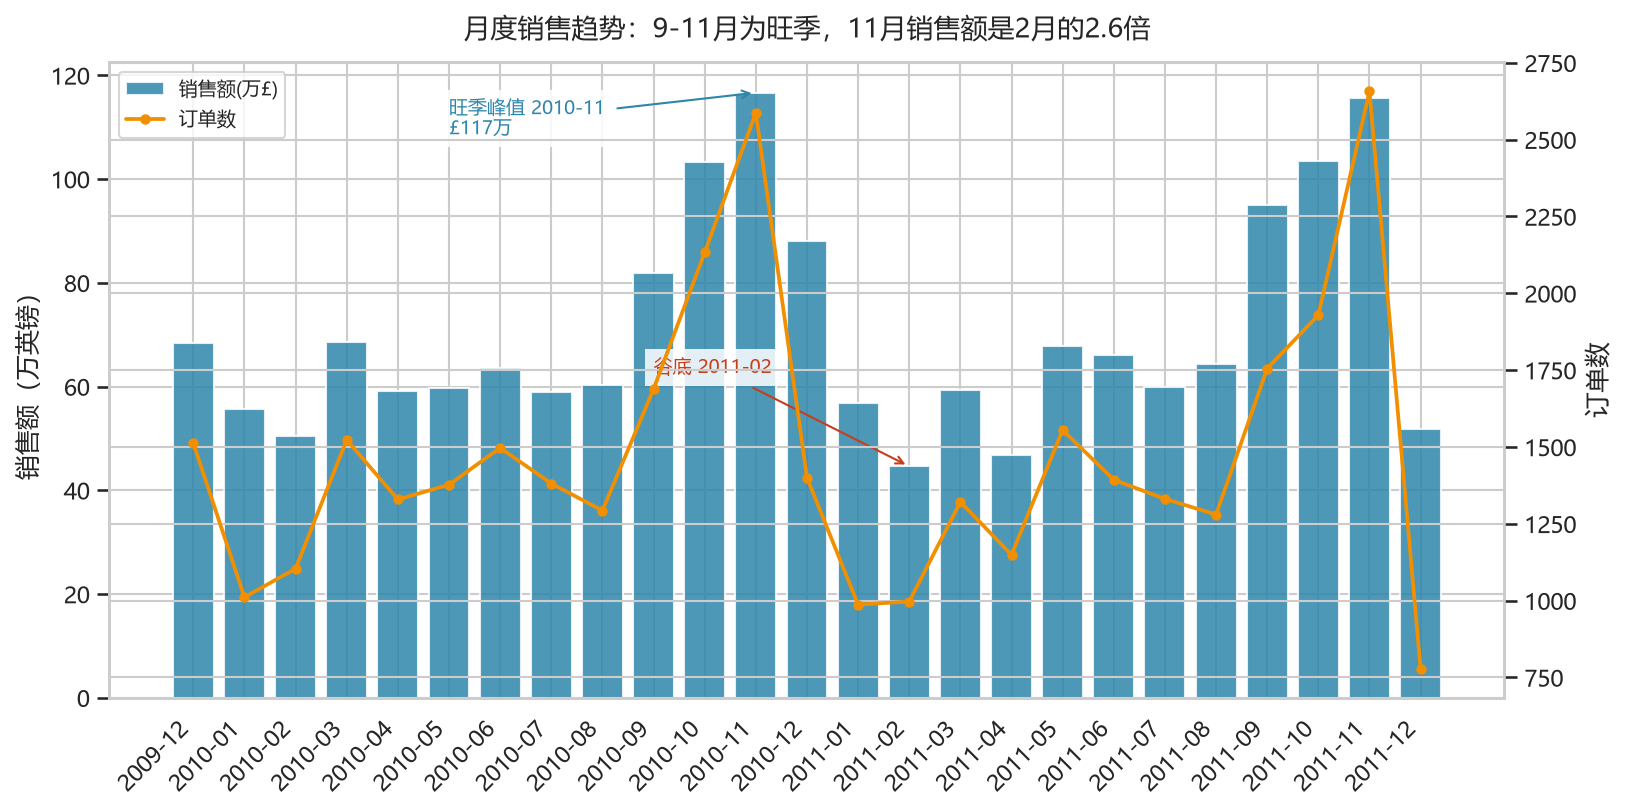
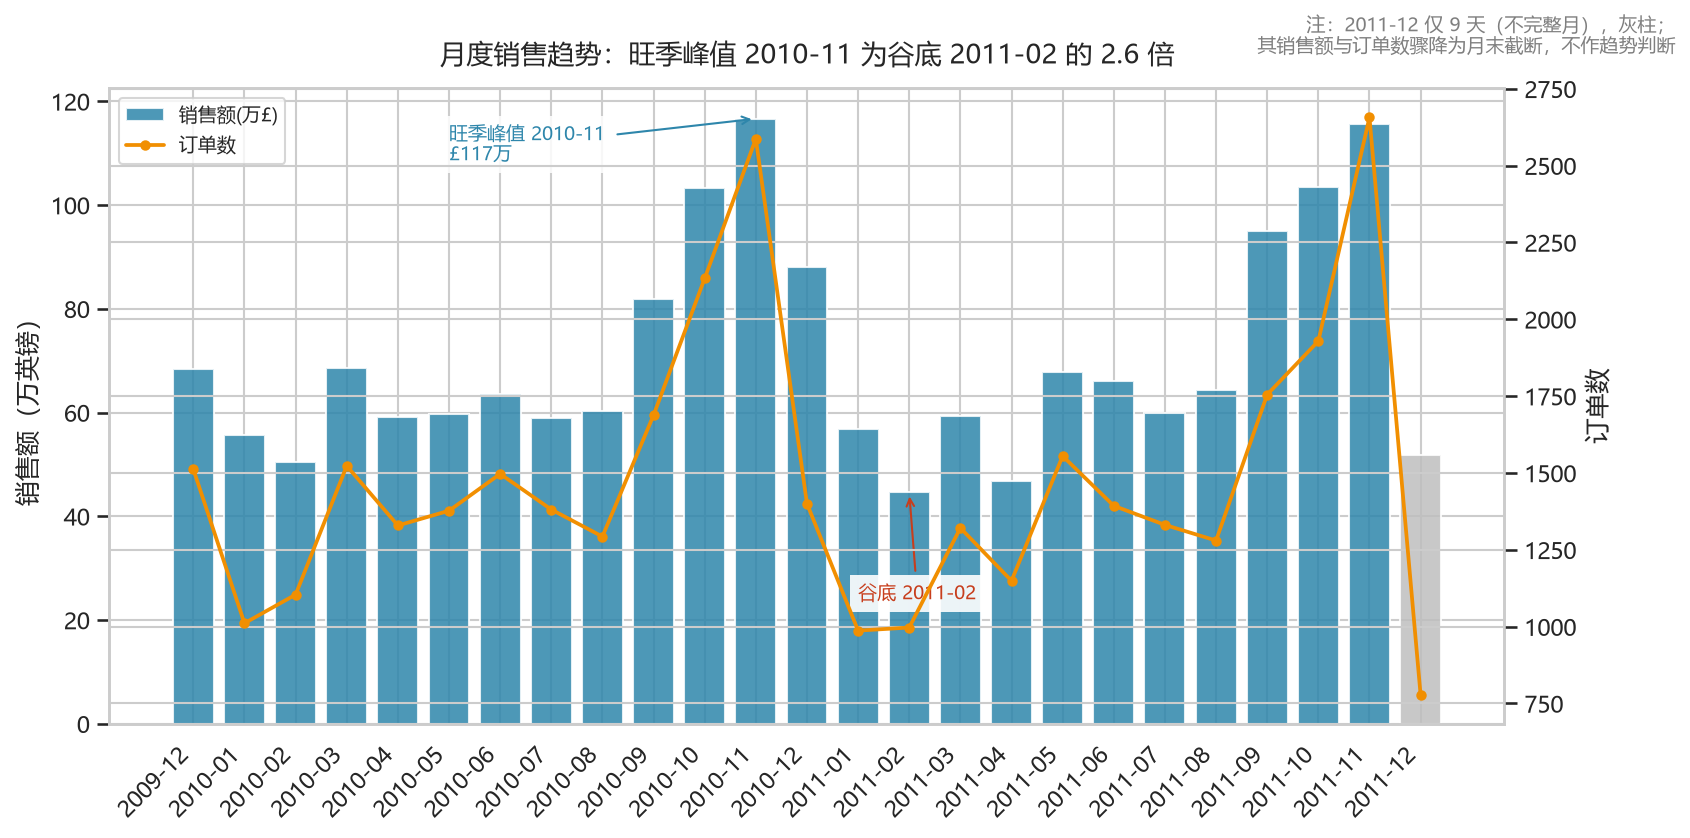
fix: 评审修订——统一文档分层占比数字、澄清RF定层口径、残月灰化标注、工程化收尾
- README/报告.md 数字统一为最新一次运行结果（25.1%/69.3%/26.0%/3.7%），图表标题改为动态生成，杜绝再次跑偏
- RFM 定层改为 RF 定层（M 与 F 秩相关 0.86，M 仅作描述列），README/报告/SQL 三处口径一致
- 图1 残月(2011-12 仅9天)灰化并加注；谷底改为全期极值，消除年份选择性
- 修正幽灵引用(03_retention.py→02_visualize.py)、删除 TODO 措辞与本机路径
- 补 requirements.txt、LICENSE、数据下载指引；README 新增已知局限章节

diff --git a/analysis/02_visualize.py b/analysis/02_visualize.py
@@ -5,14 +5,21 @@
 """
 import pandas as pd
 import numpy as np
+import logging
 import matplotlib.pyplot as plt
 import matplotlib.ticker as mtick
 import seaborn as sns
 
+# 压掉其他平台字体缺失的提示（Windows 下会用列表里第一个可用的微软雅黑）
+logging.getLogger("matplotlib.font_manager").setLevel(logging.ERROR)
+
 # ---------- 全局样式 ----------
-plt.rcParams["font.sans-serif"] = ["Microsoft YaHei"]   # 中文字体
+# 中文字体按平台依次回退：Windows → macOS → Linux，找不到任一可用字体时退回英文标签也不报错
+CJK_FONTS = ["Microsoft YaHei", "SimHei", "PingFang SC", "Hiragino Sans GB",
+             "Noto Sans CJK SC", "WenQuanYi Zen Hei", "Arial Unicode MS"]
+plt.rcParams["font.sans-serif"] = CJK_FONTS + ["DejaVu Sans"]
 plt.rcParams["axes.unicode_minus"] = False
-sns.set_theme(style="whitegrid", font="Microsoft YaHei")
+sns.set_theme(style="whitegrid", font=CJK_FONTS)
 C_MAIN, C_ACCENT, C_WARN = "#2E86AB", "#F18F01", "#C73E1D"
 
 df = pd.read_csv("data/clean_orders.csv",
@@ -37,7 +44,16 @@ monthly = (df.groupby("order_month")
 
 fig, ax1 = plt.subplots(figsize=(12, 5.5))
 x = range(len(monthly))
-ax1.bar(x, monthly["revenue"] / 1e4, color=C_MAIN, alpha=0.85, label="销售额(万£)")
+
+# 识别不完整月（最后一个月数据截止到当月某天），单独灰化，不参与趋势判断
+last_month = monthly["order_month"].iloc[-1]
+last_days = int(df.loc[df["order_month"] == last_month, "order_date"].dt.day.max())
+is_partial = last_days < 25
+bar_colors = [C_MAIN] * len(monthly)
+if is_partial:
+    bar_colors[-1] = "#BFBFBF"
+
+ax1.bar(x, monthly["revenue"] / 1e4, color=bar_colors, alpha=0.85, label="销售额(万£)")
 ax1.set_xticks(list(x))
 ax1.set_xticklabels(monthly["order_month"], rotation=45, ha="right")
 ax1.set_ylabel("销售额（万英镑）")
@@ -47,20 +63,27 @@ ax2 = ax1.twinx()
 ax2.plot(x, monthly["orders"], color=C_ACCENT, marker="o", ms=4, lw=1.8, label="订单数")
 ax2.set_ylabel("订单数")
 
-# 标注旺季峰值与谷底
+# 标注旺季峰值与谷底（均在完整月内取全局极值，不做年份筛选）
 peak = monthly["revenue"].idxmax()
-trough = monthly[monthly["order_month"].str.startswith(("2011",))]["revenue"].idxmin()
-ax1.annotate(f"旺季峰值 {monthly.loc[peak,'order_month']}\n£{monthly.loc[peak,'revenue']/1e4:.0f}万",
-             xy=(peak, monthly.loc[peak, "revenue"]/1e4), xytext=(peak-6, monthly["revenue"].max()/1e4 - 8),
+trough = monthly["revenue"].idxmin()
+peak_v = monthly.loc[peak, "revenue"] / 1e4
+trough_v = monthly.loc[trough, "revenue"] / 1e4
+ax1.annotate(f"旺季峰值 {monthly.loc[peak,'order_month']}\n£{peak_v:.0f}万",
+             xy=(peak, peak_v), xytext=(peak-6, peak_v - 8),
              fontsize=9, color=C_MAIN, arrowprops=dict(arrowstyle="->", color=C_MAIN),
              bbox=dict(facecolor="white", alpha=0.85, edgecolor="none"))
 ax1.annotate(f"谷底 {monthly.loc[trough,'order_month']}",
-             xy=(trough, monthly.loc[trough, "revenue"]/1e4),
-             xytext=(trough-5, monthly["revenue"].min()/1e4+18),
+             xy=(trough, trough_v), xytext=(trough - 1, 24),
              fontsize=9, color=C_WARN, arrowprops=dict(arrowstyle="->", color=C_WARN),
-             bbox=dict(facecolor="white", alpha=0.85, edgecolor="none"))
+             bbox=dict(facecolor="white", alpha=0.9, edgecolor="none"))
+if is_partial:
+    fig.text(0.995, 0.97,
+             f"注：{last_month} 仅 {last_days} 天（不完整月），灰柱；\n"
+             f"其销售额与订单数骤降为月末截断，不作趋势判断",
+             ha="right", va="top", fontsize=9, color="#7F7F7F")
 
-ax1.set_title("月度销售趋势：9-11月为旺季，11月销售额是2月的2.6倍", fontsize=13, pad=12)
+ax1.set_title(f"月度销售趋势：旺季峰值 {monthly.loc[peak,'order_month']} 为谷底 "
+              f"{monthly.loc[trough,'order_month']} 的 {peak_v/trough_v:.1f} 倍", fontsize=13, pad=12)
 h1, l1 = ax1.get_legend_handles_labels(); h2, l2 = ax2.get_legend_handles_labels()
 ax1.legend(h1 + h2, l1 + l2, loc="upper left", fontsize=9)
 save_fig(fig, "01_monthly_trend.png")
@@ -95,7 +118,9 @@ ax.set_title(f"客户价值帕累托曲线（n={n} 个客户）", fontsize=13, p
 save_fig(fig, "02_customer_pareto.png")
 
 # ============================================================
-# 图 3：RFM 分层 —— 人数占比 vs 金额占比（复用 SQL 的分层规则）
+# 图 3：RF 分层 —— 人数占比 vs 金额占比（复用 SQL 的分层规则）
+#   分层规则只消费 R / F 两个维度；M 与 F 秩相关 0.86，加入会重复计权，
+#   故 M 仅作为「金额描述列」保留，不参与定层（详见 README 局限说明）。
 # ============================================================
 obs_end = df["order_date"].max()
 rfm = (df.groupby("customer_id")
@@ -129,9 +154,22 @@ for bars in (b1, b2):
     ax.bar_label(bars, fmt="%.1f%%", fontsize=9, padding=2)
 ax.set_xticks(xp); ax.set_xticklabels(seg.index, fontsize=10)
 ax.yaxis.set_major_formatter(mtick.PercentFormatter())
-ax.set_title("RFM 分层：重要价值客户 27% 的人数贡献 70% 的金额", fontsize=13, pad=12)
+# 标题数字全部由本次计算结果生成，避免改代码后标题与柱子不一致
+w_row = seg[seg.index.str.startswith("重要价值客户")].iloc[0]
+ax.set_title(f"RF 分层：重要价值客户 {w_row['人数占比']:.1f}% 的人数贡献 {w_row['金额占比']:.1f}% 的金额",
+             fontsize=13, pad=12)
 ax.legend()
 save_fig(fig, "03_rfm_segments.png")
+
+# 分层明细（控制台 & 供报告核对；文档里的数字以这里为准）
+stat = (rfm.groupby("segment")
+           .agg(人数=("customer_id", "count"), 金额=("monetary", "sum"),
+                平均购买次数=("frequency", "mean"), 平均距上次购买=("recency", "mean")))
+stat["人数占比"] = stat["人数"] / stat["人数"].sum() * 100
+stat["金额占比"] = stat["金额"] / stat["金额"].sum() * 100
+print("\n[分层明细] 请以此为准同步 README / 报告.md：")
+print(stat[["人数占比", "金额占比", "平均购买次数", "平均距上次购买"]]
+      .sort_values("金额占比", ascending=False).round(1).to_string())
 
 # ============================================================
 # 图 4：留存热力图（按首购月 cohort × 距首购第 N 月）
@@ -155,8 +193,11 @@ sns.heatmap(heat, annot=True, fmt=".0f", cmap="YlGnBu", vmin=0, vmax=60,
             cbar_kws={"label": "留存率 %"}, linewidths=0.4, ax=ax)
 ax.set_xlabel("距首次购买")
 ax.set_ylabel("首购月份（cohort）")
-ax.set_title("留存热力图：次月留存约 19%，留存下来的客户会持续回访", fontsize=13, pad=12)
+m1 = heat["第1月"].median()          # 次月留存中位数：由数据算出，不写死
+ax.set_title(f"留存热力图：次月留存中位数 {m1:.0f}%，留存下来的客户会持续回访", fontsize=13, pad=12)
 save_fig(fig, "04_retention_heatmap.png")
+print(f"\n[留存] 次月留存中位数 {m1:.1f}%｜各 cohort 次月留存范围 "
+      f"{heat['第1月'].min():.0f}–{heat['第1月'].max():.0f}%")
 
 # ---------- 保存 RFM 明细表供报告使用 ----------
 rfm.to_csv("data/rfm_customers.csv", index=False)

diff --git a/analysis/01_cleaning.py b/analysis/01_cleaning.py
@@ -25,25 +25,31 @@ print(f"[1] 重复值：删除 {before - len(df):,} 行，剩余 {len(df):,} 行
 print("[2] 缺失情况：")
 print((df.isnull().mean() * 100).round(2).astype(str) + " %")
 
-# TODO(你来做)：决定怎么处理
-#   - Customer ID 缺失 22.8%：用户分析必须剔除（无法归属到人）
-#   - Description 缺失 4382：可用同 StockCode 的其他行反查补全，补不全的剔除
+# 处理决策（非待办，已定稿）：
+#   - Customer ID 缺失 22.8%（243,007 行）：无法归因到具体客户，剔除。这批多为游客单，
+#     只影响"整体销售额"这一口径，不影响任何客户级指标（复购率 / 留存 / RF 分层均按客户聚合）
+#   - Description 缺失 4,382 行：该字段不参与任何指标计算，仅用于人工抽查商品构成，
+#     因此**不做** StockCode 反查补全，保留缺失（占比 <0.6%，不影响结论）
 df = df.dropna(subset=["Customer ID"])
 
 # ============ 3. 异常值 ============
-# TODO(你来做)：思考这几个阈值合不合理，可自行调整并写明理由
-#   - 负数量 = 退货/取消单，这里先剔除（只分析正向购买行为）
-#   - 0 或负价格 = 坏账调整/赠品，剔除
-#   - 极端价格（如 > 10000）多为人工录入错误，剔除
+# 阈值依据（已定稿；如需调整须同步 README 与 报告.md）：
+#   - Quantity <= 0 = 退货 / 取消单 / 坏账调整 → 本版只分析正向购买行为，整段剔除
+#     代价：销售额口径偏乐观（未扣退货），且丢掉"退货"这个潜在流失信号，已在报告 §5 局限声明
+#   - Price <= 0（赠品、坏账调整）或 > 10,000（人工录入错误）→ 剔除
+df["is_cancel"] = df["Invoice"].astype(str).str.startswith("C")
+n_cancel = int((df["is_cancel"] | (df["Quantity"] <= 0)).sum())
 rows_before = len(df)
 df = df[(df["Quantity"] > 0) & (df["Price"] > 0) & (df["Price"] <= 10000)]
-print(f"[3] 异常值：剔除 {rows_before - len(df):,} 行，剩余 {len(df):,} 行")
+print(f"[3] 异常值：剔除 {rows_before - len(df):,} 行"
+      f"（其中退货/取消 {n_cancel:,} 行），剩余 {len(df):,} 行")
 
 # ============ 4. 类型统一 ============
 df["InvoiceDate"] = pd.to_datetime(df["InvoiceDate"])
 df["Customer ID"] = df["Customer ID"].astype(int)
 df["Country"] = df["Country"].astype("category")
-df["is_cancel"] = df["Invoice"].astype(str).str.startswith("C")  # 标记取消单
+# 注：is_cancel 在剔除负数量后恒为 False（退货行已整段剔除），保留该列只为与 sql/00 表结构一致；
+# 退货规模记录在清洗报告的「退货取消行数」里，供后续做"退货 → 流失"关联分析
 
 # 新增派生字段（后面分析要用）
 df["amount"] = df["Quantity"] * df["Price"]        # 该行金额
@@ -64,6 +70,8 @@ report = {
     "客户数": df["Customer ID"].nunique(),
     "订单数": df["Invoice"].nunique(),
     "总销售额(英镑)": f"{df['amount'].sum():,.0f}",
+    "退货取消行数(已剔除)": n_cancel,
+    "观测终点": str(df["InvoiceDate"].max().date()),
 }
 print("\n[5] 清洗报告")
 for k, v in report.items():

diff --git a/README.md b/README.md
@@ -25,15 +25,15 @@
 | Country | 国家 | 43 个国家/地区，英国占绝大多数 |
 
 ### 已知数据质量问题（清洗阶段处理）
-1. Customer ID 缺失 22.8% → 无法做用户分析，分析层剔除
-2. 负数量 22,950 行 → 退货/取消，需与正常订单区分
-3. 异常单价（0 元、负数、极高值）→ 需设阈值过滤
-4. Description 缺失 4,382 行 → 可从 StockCode 反查补全
-5. Invoice 以 C 开头为取消单 → 单独标记
+1. Customer ID 缺失 22.8% → 无法做用户分析，分析层剔除（游客单，不影响客户级指标）
+2. 负数量 22,950 行 → 退货/取消，本版整段剔除，只分析正向购买；代价已在报告 §5 局限声明
+3. 异常单价（0 元、负数、极高值）→ 设阈值过滤（Price ≤ 10,000）
+4. Description 缺失 4,382 行 → 该字段不参与任何指标计算，**不做** StockCode 反查补全，保留缺失
+5. Invoice 以 C 开头为取消单 → 清洗后全部随负数量剔除（is_cancel 恒为 False，保留该列仅为表结构一致）
 
 ## 三、核心分析问题
 - **Q1 留存**：按月分群（cohort）后，新客户在首次购买后 30/60/90 天的复购率是多少？哪几个月的客户质量最好？
-- **Q2 结构**：客户购买次数呈什么分布？RFM 分层后，各层客户对销售额的贡献占比如何（是否符合帕累托 20/80）？高价值客户的共同特征是什么（国家/客单价/品类宽度）？
+- **Q2 结构**：客户购买次数呈什么分布？按 R/F 分层后，各层客户对销售额的贡献占比如何（是否符合帕累托 20/80）？高价值客户的共同特征是什么（国家/客单价/品类宽度）？
 - **Q3 流失**：以"距最后一次购买超过 N 天"定义流失，流失客户与留存客户在购买间隔、客单价、品类数量上有何差异？运营应在哪个时点介入召回？
 
 ## 四、目录结构
@@ -51,8 +51,14 @@ ecommerce-churn-analysis/
 │   ├── 01_core_metrics.sql       4 个核心指标（含复购率、二八法则）
 │   └── 02_rfm_and_retention.sql  RFM 分层 + 留存 cohort
 ├── charts/    图表输出
+├── requirements.txt  Python 依赖
+├── LICENSE
 └── README.md
 ```
+
+> **数据不在仓库里**（体积原因，已被 .gitignore 排除）。复现步骤：从
+> [UCI Online Retail II](https://archive.ics.uci.edu/dataset/502/online+retail+ii)
+> 下载 xlsx 放入 `data/`，依次运行 `analysis/01_cleaning.py` → `analysis/02_visualize.py`。
 
 ## 五、清洗结果（2026-11-09 完成）
 
@@ -72,7 +78,8 @@ ecommerce-churn-analysis/
 - [x] 数据导入 MySQL 并跑通 SQL（2026-11-23，26 秒导入，验收四项全对）
 - [x] Python 侧 RFM 与留存可视化（2026-11-24，4 张图）
 - [x] 分析报告（2026-11-24，`报告.md`，含购买间隔/召回时机分析）
-- [ ] 上传 GitHub
+- [x] 上传 GitHub（2026-11-24，github.com/LetitbePJ/ecommerce-churn-analysis）
+- [x] 评审修订（2026-11-25：文档数字统一、RF 定层口径澄清、残月标注、requirements/LICENSE 收尾）
 
 ## 七、SQL 阶段核心发现（2026-11-23）
 
@@ -81,7 +88,14 @@ ecommerce-churn-analysis/
 | 二八法则（更陡） | Top 10% 客户（588 人）贡献 **64%** 销售额；末 40% 客户合计只贡献 4% |
 | 复购率 | **71.3%**（按"≥2 个不同下单日"口径；若按订单数口径会虚高，需在报告里写清口径） |
 | 季节性 | 9–11 月为旺季（11 月峰值 £116 万），1–2 月为谷底 |
-| RFM 分层 | 重要价值客户 27% 人数 → **70.2% 金额**（平均购买 14.8 次）；流失客户 28% 人数 → 仅 4.1% 金额（平均 455 天未购买、仅 1.3 次） |
-| 留存 | 次月留存约 19%（如 2010-03 群：442 → 84 人），第 2 月起回升并稳定在 20–25%——新客大量"买一次就走"，但留下来的会持续回访 |
+| RF 分层（R/F 定层，M 仅描述） | 重要价值客户 **25.1%** 人数 → **69.3%** 金额（平均购买 15.7 次）；流失客户 26.0% 人数 → 仅 3.7% 金额（平均 458 天未购买、仅 1.3 次） |
+| 留存 | 次月留存中位数 20.5%（各 cohort 范围 9–35%），第 2 月起回升并稳定在 20–25%——新客大量"买一次就走"，但留下来的会持续回访 |
 
 > ⚠ 报告写作提醒：复购率必须注明口径（"按客户活跃天数 ≥2 天"），因为一个订单拆多行、同一天多单都会虚高订单口径的复购率。
+
+## 八、已知局限
+
+- **RF 而非 RFM 定层**：M 与 F 的秩相关达 0.86，纳入定层会对高频客户重复计权，故只按 R/F 定层、M 作金额描述列（`sql/02` 与 `02_visualize.py` 均已注明）
+- **退货整段剔除**：销售额未扣退货，口径偏乐观；"退货 → 流失"的关联分析留作后续方向
+- **残月**：2011-12 仅 9 天数据，月度趋势图中已灰化标注，不参与趋势判断
+- **流失阈值外推**：70/90 天预警线来自 4,189 个复购客户的间隔分位数，对只买过 1 次的客户仅作参考
